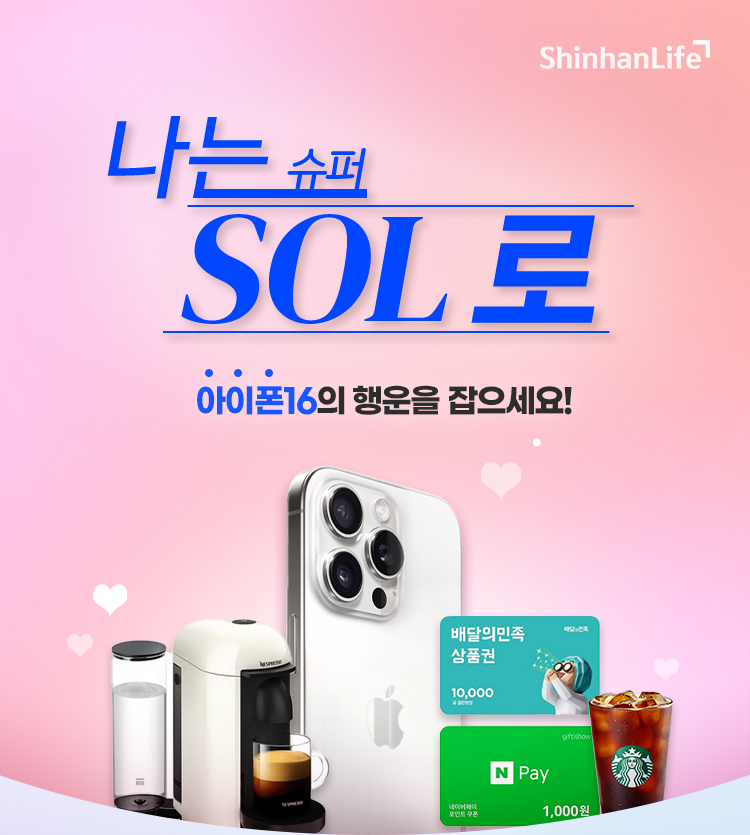
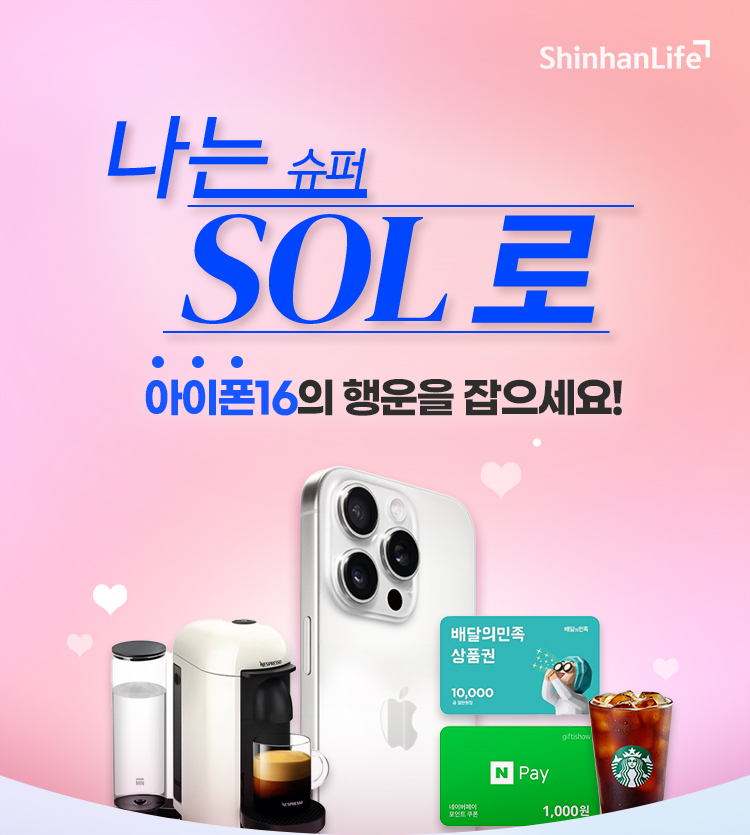
수정 전달

diff --git a/event_01/assets/css/style.css b/event_01/assets/css/style.css
@@ -58,7 +58,7 @@ html:not(.touchmode) ::-webkit-scrollbar-track {
 .block_title{font-size:30px; font-weight:700; line-height:1.4; text-align: center; color:#515cc5;
   text-shadow: -3px -3px 0 rgba(255,255,255,.3), 3px -3px 0 rgba(255,255,255,.3), -3px 3px 0 rgba(255,255,255,.3), 3px 3px 0 rgba(255,255,255,.3);
 } */
-.block_title{display:inline-block; font-size:32px; color:#0433af; font-weight:700; letter-spacing: -1px; background:#fff;padding:5px 12px 0;white-space: nowrap;}
+.block_title{display:inline-block; font-size:42px; color:#0433af; font-weight:700; letter-spacing: -2px; /* background:#fff; padding:5px 12px 0;*/white-space: nowrap;}
 .block_title.skin2{ color:#0433af;}
 .block_title.skin3{ color:#502e95;}
 .block_title.skin4{ color:#502e95;}
@@ -70,7 +70,7 @@ html:not(.touchmode) ::-webkit-scrollbar-track {
 .block_title_img.skin4{}
 
 .block_word_key{display:inline-block; position:relative;}
-.block_word_key:after{display:none;content:'';  width:8px;height:8px;border-radius: 100%; background:#0433af; position:absolute;top:-23px; left:50%; transform: translateX(-50%);
+.block_word_key:after{display:none;content:'';  width:12px;height:12px;border-radius: 100%; background:#0433af; position:absolute;top:-23px; left:50%; transform: translateX(-50%);
  /*  animation: emp 2.1s infinite;  */
 }
 .block_word_key.active:after{display:block;}
@@ -110,7 +110,7 @@ html:not(.touchmode) ::-webkit-scrollbar-track {
 .event_method_wrap{margin-top:30px;text-align: center;}
 .event_method_wrap img{vertical-align: top;}
 
-.btn_quadbox_wrap{margin-top:15px;}
+.btn_quadbox_wrap{margin-top:5px;}
 .btn_quadbox{display:block; text-align: center;}
 .btn_quadbox img{vertical-align: top;}
 .btn_quadbox_text{}
@@ -123,8 +123,8 @@ html:not(.touchmode) ::-webkit-scrollbar-track {
 .espec_cell{display:table-cell;vertical-align: top;padding-bottom:10px;}
 .espec_cell.define_th{}
 .espec_cell.define_td{}
-.espec_thtext{display:flex; white-space: nowrap; font-size:24px; font-weight:700; box-sizing: border-box; color:#fff; line-height: 1; padding:8px 30px 2px; min-height:50px; justify-content: center; align-items: center; background:#0046ff; border-radius: 100px;}
-.espec_tdtext{display:flex; flex-wrap: wrap; min-height:50px; align-items: center; color:#262626; font-size:24px; letter-spacing: -0.5px; font-weight:500; box-sizing: border-box; padding:7px 13px 2px;}
+.espec_thtext{display:flex; white-space: nowrap; font-size:28px; font-weight:700; box-sizing: border-box; color:#fff; line-height: 1; padding:8px 22px 2px; min-height:50px; justify-content: center; align-items: center; background:#0046ff; border-radius: 100px;}
+.espec_tdtext{display:flex; flex-wrap: wrap; min-height:50px; align-items: center; color:#262626; font-size:28px; letter-spacing: -0.5px; font-weight:700; box-sizing: border-box; padding:6px 13px 2px;}
 
 
 .present_grid_container{display:flex; gap:30px; margin:40px 55px 0;}
@@ -136,48 +136,48 @@ html:not(.touchmode) ::-webkit-scrollbar-track {
 }
 .flag_layer{position:absolute;top:-34px;left:0; max-width:74px;}
 .flag_layer img{vertical-align: top;}
-.present_cont{width:100%; text-align: center; box-sizing: border-box; padding:25px 25px 15px;}
-.present_thum_row{max-width:159px; margin:0 auto;}
+.present_cont{width:100%; text-align: center; box-sizing: border-box; padding:25px 25px 25px;}
+.present_thum_row{max-width:209px; margin:0 auto;}
 .present_thum_row img{vertical-align: top;}
 .present_spec_row{line-height:1.3;margin-top:10px; letter-spacing: -1px;}
 .present_top_summary{font-size:22px; color:#222; line-height:1.3;}
-.present_top_count{font-size:32px; color:#0046ff; font-weight:700; margin-top:5px;}
+.present_top_count{font-size:36px; color:#0046ff; font-weight:700; margin-top:10px;line-height:1;}
 
 .present_thum_cols{flex:0 0 100px;}
 .present_thum_cols img{vertical-align: top;}
 
 .present_spec_cols{flex:1; letter-spacing: -1px; }
 .present_sub_summary{font-size:22px; color:#222222; font-weight:500;}
-.present_sub_count{font-size:26px; color:#0046ff; font-weight:700; margin-top:8px;}
+.present_sub_count{font-size:28px; color:#0046ff; font-weight:700; margin-top:8px; line-height:1;}
 
 .present_box_list{flex:1; display:flex; flex-direction: column; justify-content: space-between; gap:20px;}
 .present_box_list > li{}
 .present_box_list > li .present_box{flex-direction: row;}
-.present_box_list > li .present_cont{display:flex; align-items: center; text-align: left; padding:10px 0 10px 28px; gap:22px}
+.present_box_list > li .present_cont{display:flex; align-items: center; text-align: left; padding:10px 0 10px 26px; gap:20px}
 .present_box_list > li .flag_layer{top:-28px; left: 10px;}
 .present_box_list > li .flag_layer img{vertical-align: middle;}
 .present_box_list > li:last-of-type{}
 
 
 .event_prebox{
-  box-shadow: 3.536px 3.536px 0px 3px rgba(70, 29, 178, 0.15); border-radius:18px; position:relative; overflow:hidden; margin:35px 55px 0;
+  box-shadow: 5.071px 10.876px 13px 0px rgba(35, 82, 150, 0.14); border-radius:18px; position:relative; overflow:hidden; margin:35px 55px 0;
 }
-.prebox_top{background:#ffe1f7; display:flex; padding:30px 35px; align-items: center; gap:15px;}
+.prebox_top{background:#ffe1f7; display:flex; padding:30px 15px; align-items: center; }
 .prebox_img_cols{flex:0 0 180px;}
 .prebox_img_cols img{vertical-align: top;}
 .prebox_spec_cols{letter-spacing: -1px;}
-.prebox_spec_para_01{font-size:24px; color:#222222; font-weight:500; }
-.prebox_spec_para_02{margin-top:10px; font-size:32px; font-weight:700; color:#222222;}
+.prebox_spec_para_01{font-size:28px; color:#222222; font-weight:500; }
+.prebox_spec_para_02{margin-top:15px; font-size:36px; font-weight:700; color:#222222;}
 .prebox_spec_para_02 .emp{color:#0046ff; font-weight:700;}
-.prebox_mid{background:#fff; padding:50px 65px 50px; text-align: center;}
+.prebox_mid{background:#fff; padding:40px 30px; text-align: center;}
 .prebox_mid_copy_wrap{letter-spacing: -1px;}
-.prebox_mid_main_copy{font-size:32px; color:#222222; font-weight:700;}
+.prebox_mid_main_copy{font-size:36px; color:#222222; font-weight:700;}
 .prebox_mid_main_copy strong{color:#0046ff; font-weight:700;}
-.prebox_mid_sub_copy{font-size:24px; margin-top:8px;}
+.prebox_mid_sub_copy{font-size:28px; margin-top:13px;}
 .prebox_mid_sub_copy strong{color:#0046ff; font-weight:700;}
-.prebox_screenshot{background:#fff; box-shadow: 0px 0px 20px 0px rgba(0, 0, 0, 0.15); border-radius: 18px; overflow: hidden; position:relative; margin-top:35px;}
+.prebox_screenshot{background:#fff; box-shadow: 0px 0px 20px 0px rgba(0, 0, 0, 0.15); border-radius: 18px; overflow: hidden; position:relative; margin-top:40px;}
 .prebox_screenshot img{vertical-align: top;}
-.prebox_clause{margin-top:25px; font-size:18px; color:#222222; font-weight:500; letter-spacing: -0.5px;}
+.prebox_clause{margin-top:35px; font-size:22px; color:#222222; font-weight:500; letter-spacing: -0.5px;}
 
 
 @media (max-width:750px){
@@ -190,9 +190,10 @@ html:not(.touchmode) ::-webkit-scrollbar-track {
   .indent_para_list > li{font-size: 2.4vw; gap:0.667vw;}
   .raw_para{font-size:2.4vw;margin-top:2.667vw;padding-left:2.4vw;}
 
-  .block_title_row{padding:0 17.6vw;}
-  .block_title{font-size:4.267vw; padding:0.8vw 1.6vw 0;}
-  .block_word_key:after{width:1.067vw;height:1.067vw;top:-3.067vw;}
+  .block_title_row{padding:0 0;}
+  .block_title_img{max-width:64.933vw;text-align: center;display:block;margin:0 auto;}
+  .block_title{font-size:5.6vw;letter-spacing: -1px;}
+  .block_word_key:after{width:1.6vw;height:1.6vw;top:-3.067vw;}
 
   .event_mid{padding:8.933vw 0 8vw;}
 
@@ -204,49 +205,53 @@ html:not(.touchmode) ::-webkit-scrollbar-track {
 
   .mid_block{margin-bottom:6vw;}
 
-  .btn_quadbox_wrap{margin:2.5vw 4vw 0;}
+  .btn_quadbox_wrap{margin:0.667vw 4vw 0;}
 
   .mid_block_wrap.type2{margin-top:6.667vw;}
   .mid_block_wrap.type2 .mid_block{margin-bottom:7.333vw;}
 
   .event_spec_wrap{margin-top:5.333vw;}
   .espec_cell{padding-bottom:1.333vw;}
-  .espec_thtext{font-size:3.2vw; padding:1.067vw 4vw 0.267vw; min-height:6.667vw;}
-  .espec_tdtext{min-height:6.667vw; font-size:3.2vw; padding:0.933vw 1.733vw 0.267vw;}
+  /* .espec_thtext{font-size:3.2vw; padding:1.067vw 4vw 0.267vw; min-height:6.667vw;}
+  .espec_tdtext{min-height:6.667vw; font-size:3.2vw; padding:0.933vw 1.733vw 0.267vw;} */
 
-  .present_thum_row{max-width:21.2vw;}
+  .espec_thtext{font-size:3.733vw; padding:1.067vw 2.933vw 0.267vw; min-height:6.667vw;}
+  .espec_tdtext{min-height:6.667vw; font-size:3.733vw; padding:0.8vw 1.733vw 0.267vw;}
+
+
+  .present_thum_row{max-width:27.867vw;}
 
   .present_grid_container{gap:4vw; margin:5.333vw 7.333vw 0;}
   .pgrid_cols.short{flex:0 0 36vw;}
   .present_box{border-radius:3.2vw;}
   .flag_layer{top:-4.533vw;max-width:9.867vw;}
-  .present_cont{padding:3.333vw 3.333vw 2vw;}
+  .present_cont{padding:3.333vw;}
   .present_spec_row{margin-top:1.333vw; }
   .present_top_summary{font-size:2.933vw; }
-  .present_top_count{font-size:4.267vw; margin-top:0.667vw;}
+  .present_top_count{font-size:4.8vw; margin-top:1.333vw;}
 
   .present_thum_cols{flex-basis: 13.333vw;}
 
   .present_sub_summary{font-size:2.933vw; }
-  .present_sub_count{font-size:3.467vw; margin-top:1.067vw;}
+  .present_sub_count{font-size:3.733vw; margin-top:1.067vw;}
 
   .present_box_list{ gap:2.667vw;}
-  .present_box_list > li .present_cont{padding:1.333vw 0 1.333vw 3.733vw; gap:4vw}
+  .present_box_list > li .present_cont{padding:1.333vw 0 1.333vw 3.467vw; gap:2.667vw}
   .present_box_list > li .flag_layer{top:-3.733vw; left: 1.333vw; max-width:7.467vw;}
 
 
   .event_prebox{
     border-radius:2.4vw; margin:4.667vw 7.333vw 0;
   }
-  .prebox_top{padding:4vw 4.667vw; gap:2vw;}
+  .prebox_top{padding:4vw 2vw;}
   .prebox_img_cols{flex-basis:24vw;}
-  .prebox_spec_para_01{font-size:3.2vw;}
-  .prebox_spec_para_02{margin-top:1.333vw; font-size:4.267vw;}
-  .prebox_mid{ padding:6.667vw 8.667vw 6.667vw; }
-  .prebox_mid_main_copy{font-size:4.267vw;}
-  .prebox_mid_sub_copy{font-size:3.2vw; margin-top:1.067vw;}
-  .prebox_screenshot{border-radius: 2.4vw;margin-top:4.667vw;}
-  .prebox_clause{margin-top:3.333vw; font-size:2.4vw;}
+  .prebox_spec_para_01{font-size:3.733vw;}
+  .prebox_spec_para_02{margin-top:2vw; font-size:4.8vw;}
+  .prebox_mid{ padding:5.333vw 4vw; }
+  .prebox_mid_main_copy{font-size:4.8vw;}
+  .prebox_mid_sub_copy{font-size:3.733vw; margin-top:1.733vw;}
+  .prebox_screenshot{border-radius: 2.4vw;margin-top:5.333vw;}
+  .prebox_clause{margin-top:4.667vw; font-size:2.933vw}
 }
 
 

diff --git a/event_01/assets/js/front.js b/event_01/assets/js/front.js
@@ -270,10 +270,12 @@ class DesignPopup {
       let countNum = 0;
       if(timerValue === 0){
         timerValue = setInterval(()=>{
-          $this_child.removeClass("active");
           if(countNum>$this_child_length-1){
             countNum = 0;
+            $this_child.removeClass("active");
+            return;
           }
+
           $this_child.eq(countNum++).addClass("active");
         },400);
       }

diff --git a/event_01/event.html b/event_01/event.html
@@ -85,7 +85,7 @@
 								<span class="espec_thtext">이벤트 기간</span>
 							</div>
 							<div class="espec_cell define_td">
-								<span class="espec_tdtext">2024.09.26(목)~11.30(토)</span>
+								<span class="espec_tdtext">2024.09.30(월)~11.30(토)</span>
 							</div>
 						</li>
 						<li>
